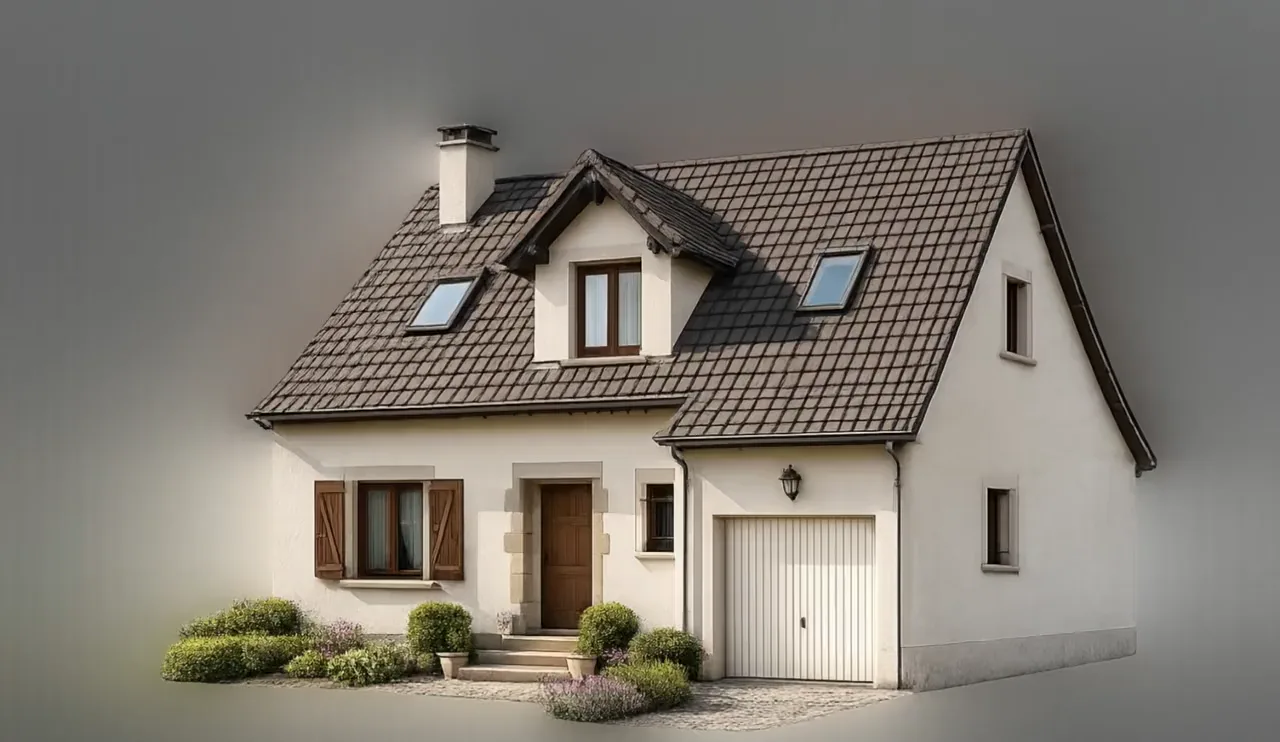
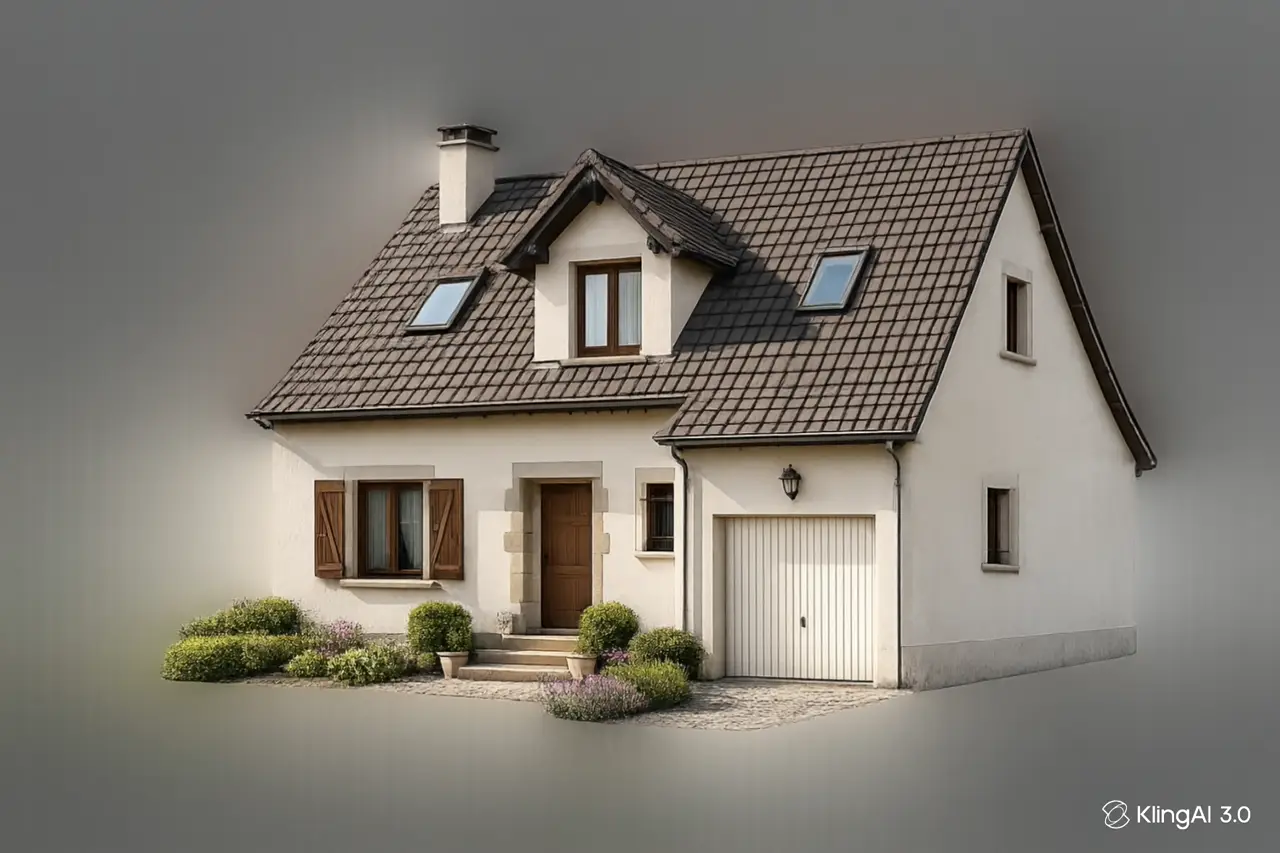
Film : passage à une séquence d'images HD sur canvas (fini le flou et le lag)
Remplace la vidéo scrubbée par 180 frames WebP HD dessinées sur <canvas>
(technique Apple/AirPods) : zéro décodage vidéo -> scrub fluide même sur
Intel, et qualité HD source conservée (1280px desktop / 700px mobile,
lissage haute qualité, DPR plafonné à 2). 20 images par morphe pour des
transitions soyeuses. Supprime film.mp4 devenu inutile.

diff --git a/assets/js/cinematic.js b/assets/js/cinematic.js
@@ -74,66 +74,102 @@
   var film  = document.getElementById('film');
   if (!film) { headerLight(); window.addEventListener('scroll', headerLight, {passive:true}); return; }
 
-  var pin   = film.querySelector('.film-pin');
-  var video = film.querySelector('.film-video');
-  var caps  = Array.prototype.slice.call(film.querySelectorAll('.film-cap'));
-  var bar   = film.querySelector('.film-bar');
-  var hint  = film.querySelector('.film-hint');
-  var prog  = film.querySelector('.cine-prog');
+  var pin    = film.querySelector('.film-pin');
+  var canvas = film.querySelector('.film-canvas');
+  var caps   = Array.prototype.slice.call(film.querySelectorAll('.film-cap'));
+  var bar    = film.querySelector('.film-bar');
+  var hint   = film.querySelector('.film-hint');
+  var prog   = film.querySelector('.cine-prog');
+  var ctx    = canvas ? canvas.getContext('2d') : null;
 
   var NC = caps.length;          // nombre de légendes (réparties sur 0..1)
   var SCROLL_VH = 6.5;           // course de scroll (en hauteurs d'écran)
   var vh = window.innerHeight;
 
-  var dur = 0;                   // durée de la vidéo (s)
   var P = 0;                     // progression du scroll 0..1
-  var targetT = 0;               // temps cible piloté par le scroll
-  var curT = 0;                  // temps courant lissé
-  var ready = false;
+  var targetF = 0;               // image cible pilotée par le scroll
+  var curF = 0;                  // image courante lissée
   var running = false;
   var dots = [];
-  var FPS = 12;                  // cadence du film (all-intra) : 1 image = 1/FPS s
-  var lastSeekT = -1;            // dernière image réellement demandée (anti-doublon)
 
-  /* ---------- Amorçage de la vidéo ----------
-     On charge le fichier entier en Blob puis on l'attribue via une URL objet.
-     Le navigateur dispose alors de tous les octets en local : le scrub
-     (seek) fonctionne dans TOUS les navigateurs, même quand le serveur
-     ne répond pas aux requêtes Range (cas de Cloudflare Pages -> Safari /
-     Firefox refusaient de chercher dans la vidéo). Repli : src direct. */
-  function onMeta(){
-    dur = (video.duration && isFinite(video.duration)) ? video.duration : 36;
-    ready = true;
-  }
-  function primeDecode(){
-    // play->pause muet : force le 1er décodage (peinture de l'image)
-    var pr = video.play && video.play();
-    if (pr && pr.then) pr.then(function(){ try{ video.pause(); }catch(e){} }).catch(function(){});
-  }
-  function attachSrc(src){
-    if (video.readyState >= 1) onMeta();
-    video.addEventListener('loadedmetadata', onMeta);
-    video.src = src;
-    video.load();
-    primeDecode();
-  }
-  if (video){
-    var srcUrl = video.getAttribute('data-src') || video.getAttribute('src');
-    var useBlob = ('fetch' in window) && ('URL' in window) && URL.createObjectURL;
-    if (useBlob && srcUrl){
-      fetch(srcUrl)
-        .then(function(r){ if(!r.ok) throw new Error('http '+r.status); return r.blob(); })
-        .then(function(blob){ attachSrc(URL.createObjectURL(blob)); })
-        .catch(function(){ attachSrc(srcUrl); }); // repli : lecture directe
-    } else if (srcUrl){
-      attachSrc(srcUrl);
+  /* ============================================================
+     SÉQUENCE D'IMAGES (technique Apple/AirPods) :
+     on précharge des frames HD (.webp) et on les DESSINE sur un
+     <canvas> au scroll. Aucun décodage vidéo => aucun à-coup, et
+     la qualité HD source est conservée (rendu net à tout DPR).
+     ============================================================ */
+  var FRAMES   = 180;            // nombre de frames extraites par dossier (20 × 9 morphes)
+  var mobile   = window.matchMedia('(max-width:760px)').matches;
+  var basePath = 'assets/img/film/' + (mobile ? 'm' : 'd') + '/';
+  // cadrage : desktop = cover recadré vers le haut (44%) ; mobile = contain
+  var FIT      = mobile ? 'contain' : 'cover';
+  var FOCUS_Y  = 0.44;
+  var imgs   = new Array(FRAMES);
+  var loaded = 0;
+  var ready  = false;
+  var firstDrawn = false;
+  var natW = 0, natH = 0;        // dimensions natives d'une frame
+
+  function pad4(n){ n = String(n); while (n.length < 4) n = '0' + n; return n; }
+
+  function preload(){
+    for (var i = 0; i < FRAMES; i++){
+      (function(idx){
+        var im = new Image();
+        im.decoding = 'async';
+        im.onload = function(){
+          loaded++;
+          if (!natW){ natW = im.naturalWidth; natH = im.naturalHeight; }
+          if (idx === 0){ ready = true; draw(0); }            // 1re frame prête : on peut afficher
+        };
+        im.onerror = function(){ loaded++; };
+        im.src = basePath + pad4(idx + 1) + '.webp';
+        imgs[idx] = im;
+      })(i);
     }
   }
+
+  /* ---------- Canvas : taille physique = CSS * DPR (plafonné à 2) ---------- */
+  function sizeCanvas(){
+    if (!canvas) return;
+    var r = canvas.getBoundingClientRect();
+    var dpr = Math.min(window.devicePixelRatio || 1, 2);
+    var w = Math.max(1, Math.round(r.width  * dpr));
+    var h = Math.max(1, Math.round(r.height * dpr));
+    if (canvas.width !== w || canvas.height !== h){
+      canvas.width = w; canvas.height = h;
+    }
+  }
+
+  /* ---------- Dessin d'une frame avec cadrage cover/contain ---------- */
+  function draw(f){
+    if (!ctx || !ready) return;
+    var idx = Math.max(0, Math.min(FRAMES - 1, Math.round(f)));
+    var im = imgs[idx];
+    if (!im || !im.complete || !im.naturalWidth) return;
+    var cw = canvas.width, ch = canvas.height;
+    ctx.imageSmoothingEnabled = true;
+    ctx.imageSmoothingQuality = 'high';   // redimensionnement HD net (sinon "low" par défaut)
+    var iw = im.naturalWidth, ih = im.naturalHeight;
+    var scale = (FIT === 'cover')
+      ? Math.max(cw / iw, ch / ih)
+      : Math.min(cw / iw, ch / ih);
+    var dw = iw * scale, dh = ih * scale;
+    var dx = (cw - dw) / 2;
+    var dy = (FIT === 'cover') ? (ch - dh) * FOCUS_Y : (ch - dh) / 2;
+    if (FIT === 'contain'){ ctx.fillStyle = '#05060a'; ctx.fillRect(0, 0, cw, ch); }
+    ctx.drawImage(im, dx, dy, dw, dh);
+    if (!firstDrawn){ firstDrawn = true; canvas.classList.add('is-drawn'); }
+  }
+
+  preload();
 
   /* ---------- Mise en page : hauteur de la section = course de scroll ---------- */
   function layout(){
     vh = window.innerHeight;
     film.style.height = Math.round(vh * (1 + SCROLL_VH)) + 'px';
+    sizeCanvas();
+    draw(curF);
   }
 
   function computeP(){
@@ -166,23 +202,14 @@
     if (act !== curDot){ curDot = act; dots.forEach(function (d, k){ d.classList.toggle('on', k === act); }); }
   }
 
-  /* ---------- Boucle d'easing : lisse curT -> targetT (clé de la fluidité) ---------- */
+  /* ---------- Boucle d'easing : lisse curF -> targetF (clé de la fluidité) ---------- */
+  var lastDrawn = -1;
   function tick(){
-    // on ne laisse jamais la vidéo se lire seule : seul le scroll pilote le temps
-    if (video && !video.paused){ try { video.pause(); } catch (e){} }
-    var diff = targetT - curT;
-    curT += diff * 0.16;
-    if (Math.abs(diff) < 0.004){ curT = targetT; running = false; }
-    // On ne demande QUE le décodage d'une nouvelle image : curT est quantifié
-    // sur la grille d'images (1/FPS). Comme le film est all-intra, chaque seek
-    // ne décode qu'une seule image -> scrub léger, même sur petit processeur.
-    if (ready && video){
-      var frameT = Math.round(curT * FPS) / FPS;
-      if (frameT !== lastSeekT){
-        lastSeekT = frameT;
-        try { video.currentTime = frameT; } catch (e){}
-      }
-    }
+    var diff = targetF - curF;
+    curF += diff * 0.18;
+    if (Math.abs(diff) < 0.05){ curF = targetF; running = false; }
+    var idx = Math.round(curF);
+    if (idx !== lastDrawn){ lastDrawn = idx; draw(idx); }   // on ne redessine que si l'image change
     if (running) requestAnimationFrame(tick);
   }
   function ensureRunning(){ if (!running){ running = true; requestAnimationFrame(tick); } }
@@ -190,7 +217,7 @@
   /* ---------- Rendu sur scroll ---------- */
   function render(){
     P = computeP();
-    targetT = P * ((dur || 36) - 0.05);
+    targetF = P * (FRAMES - 1);
     if (bar)  bar.style.width = (P * 100).toFixed(2) + '%';
     if (hint) hint.style.opacity = P > 0.02 ? '0' : '1';
     paintCaps();
@@ -226,7 +253,6 @@
   function buildStatic(){
     docEl.classList.add('is-static');
     film.style.height = 'auto';
-    if (video){ video.setAttribute('controls', ''); video.muted = true; }
     caps.forEach(function (c, i){
       c.style.opacity = (i === 0) ? '1' : '0';
       c.style.transform = 'none';

diff --git a/assets/css/cinematic.css b/assets/css/cinematic.css
@@ -42,11 +42,18 @@
   animation:gridDrift 26s linear infinite;}
 @keyframes gridDrift{0%{background-position:0 0,0 0;}100%{background-position:0 66px,66px 0;}}
 
-/* --- Film continu : une seule vidéo plein cadre --- */
-.film-stage{position:absolute;inset:0;z-index:2;}
-.film-video{position:absolute;inset:0;width:100%;height:100%;
-  object-fit:cover;object-position:center 44%;background:#05060a;
-  backface-visibility:hidden;}
+/* --- Film continu : séquence d'images HD dessinée sur canvas --- */
+.film-stage{position:absolute;inset:0;z-index:2;background:#05060a;}
+/* Le canvas couvre tout le cadre ; le cadrage (cover/contain + 44%) est
+   géré en JS dans drawImage pour préserver la netteté HD à tout DPR. */
+.film-canvas{position:absolute;inset:0;width:100%;height:100%;display:block;
+  background:#05060a;backface-visibility:hidden;}
+/* Image de repli (poster) sous le canvas : visible sans JS / pendant le
+   préchargement, masquée dès que le canvas dessine la 1re frame. */
+.film-fallback{position:absolute;inset:0;width:100%;height:100%;z-index:1;
+  object-fit:cover;object-position:center 44%;background:#05060a;}
+.film-canvas.is-drawn + .film-fallback,
+.film-canvas.is-drawn ~ .film-fallback{display:none;}
 
 /* Voile pour la lisibilité du texte */
 .film-veil{position:absolute;inset:0;z-index:3;pointer-events:none;
@@ -85,8 +92,9 @@
 
 @media (max-width:760px){
   /* portrait : on montre le cadre entier, maison parfaitement centrée
-     (le fond néon habille les bandes) plutôt que de recadrer agressivement */
-  .film-video{object-fit:contain;object-position:center center;}
+     (le fond néon habille les bandes) plutôt que de recadrer agressivement.
+     Le canvas reproduit ce "contain" en JS ; le poster suit la même règle. */
+  .film-fallback{object-fit:contain;object-position:center center;}
   .cine-prog{display:none;}
 }
 
@@ -95,7 +103,8 @@
    En l'absence de JS, on dépile aussi proprement.            */
 .is-static .film-pin{position:static;height:auto;}
 .is-static .film-stage{position:relative;height:auto;}
-.is-static .film-video{position:relative;height:auto;aspect-ratio:1280/742;object-fit:contain;}
+.is-static .film-canvas{display:none;}
+.is-static .film-fallback{position:relative;height:auto;aspect-ratio:1764/1176;object-fit:contain;}
 .is-static .film-veil{display:none;}
 .is-static .film-bar,.is-static .film-hint{display:none;}
 .is-static .film-caps{position:static;}
@@ -104,7 +113,8 @@
 html:not(.js) .film{height:auto!important;}
 html:not(.js) .film-pin{position:static;height:auto;}
 html:not(.js) .film-stage{position:relative;}
-html:not(.js) .film-video{position:relative;height:auto;aspect-ratio:1280/742;object-fit:contain;}
+html:not(.js) .film-canvas{display:none;}
+html:not(.js) .film-fallback{position:relative;height:auto;aspect-ratio:1764/1176;object-fit:contain;}
 html:not(.js) .film-bg{position:absolute;}
 html:not(.js) .film-veil{display:none;}
 html:not(.js) .film-cap{opacity:1;}

diff --git a/index.html b/index.html
@@ -85,12 +85,12 @@
     <div class="film-pin">
       <div class="film-bg" aria-hidden="true"><div class="film-grid"></div></div>
 
-      <!-- Film continu unique : un seul décodeur, scrub fluide.
-           Chargé en Blob par JS (data-src) pour un scrub fiable même quand
-           le serveur ne gère pas les requêtes Range (Safari/Firefox). -->
+      <!-- Séquence d'images HD dessinée sur canvas (technique Apple/AirPods) :
+           zéro décodage vidéo → scrub fluide même sur Intel, qualité HD préservée.
+           Les frames sont préchargées par JS depuis assets/img/film/{d|m}/. -->
       <div class="film-stage">
-        <video class="film-video" data-src="assets/video/film.mp4" poster="assets/img/posters/film.webp"
-               muted playsinline preload="none" disablepictureinpicture></video>
+        <canvas class="film-canvas" aria-hidden="true"></canvas>
+        <img class="film-fallback" src="assets/img/posters/film.webp" alt="" aria-hidden="true">
       </div>
 
       <div class="film-veil" aria-hidden="true"></div>